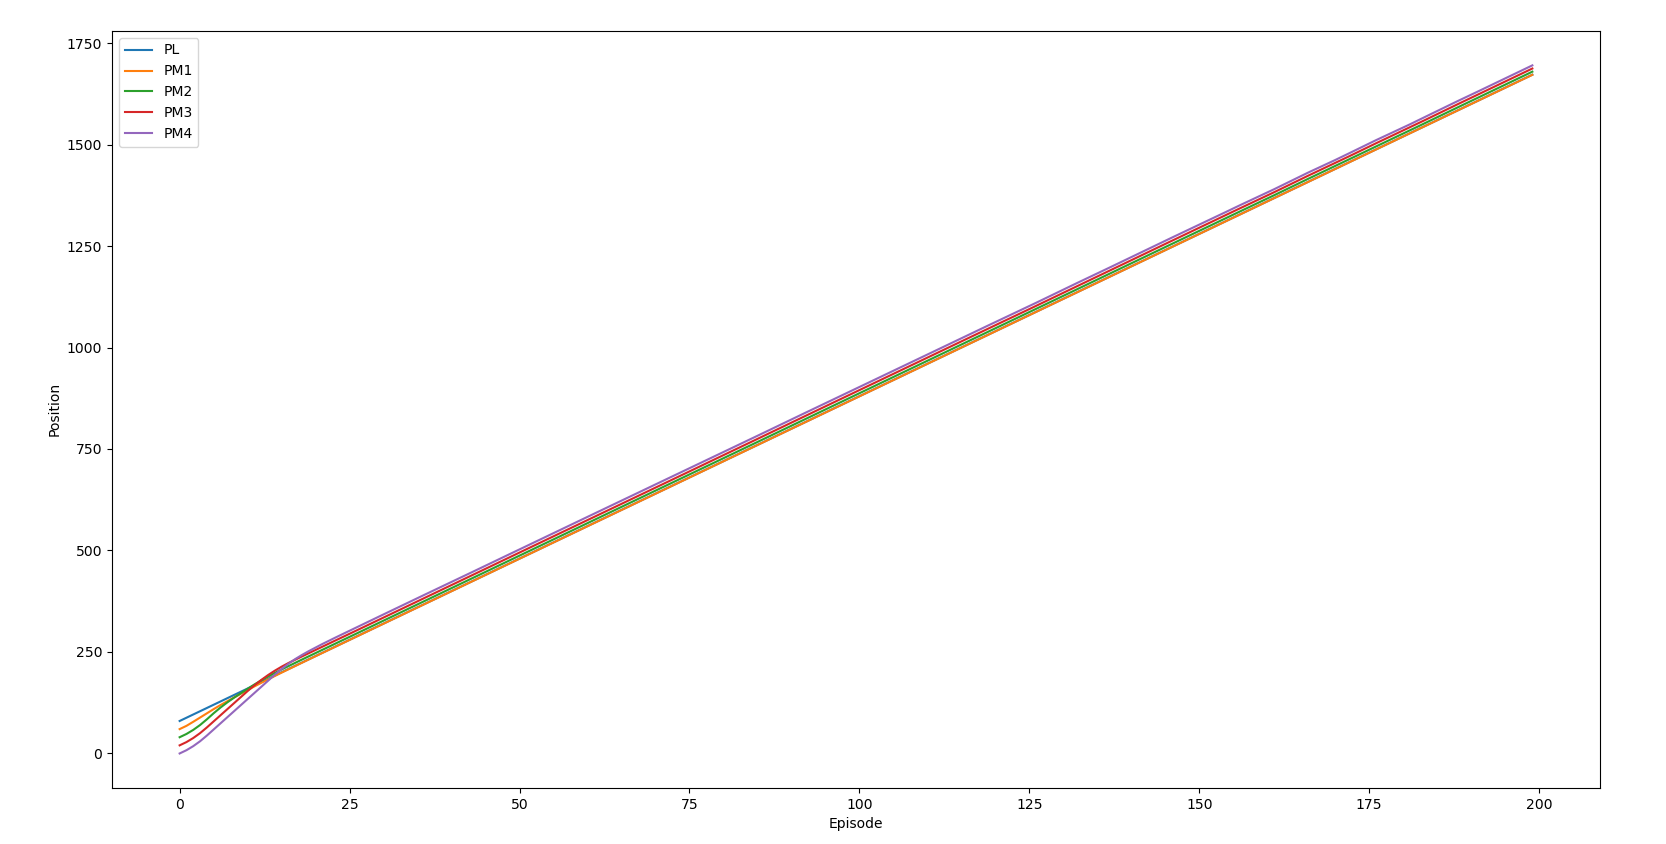
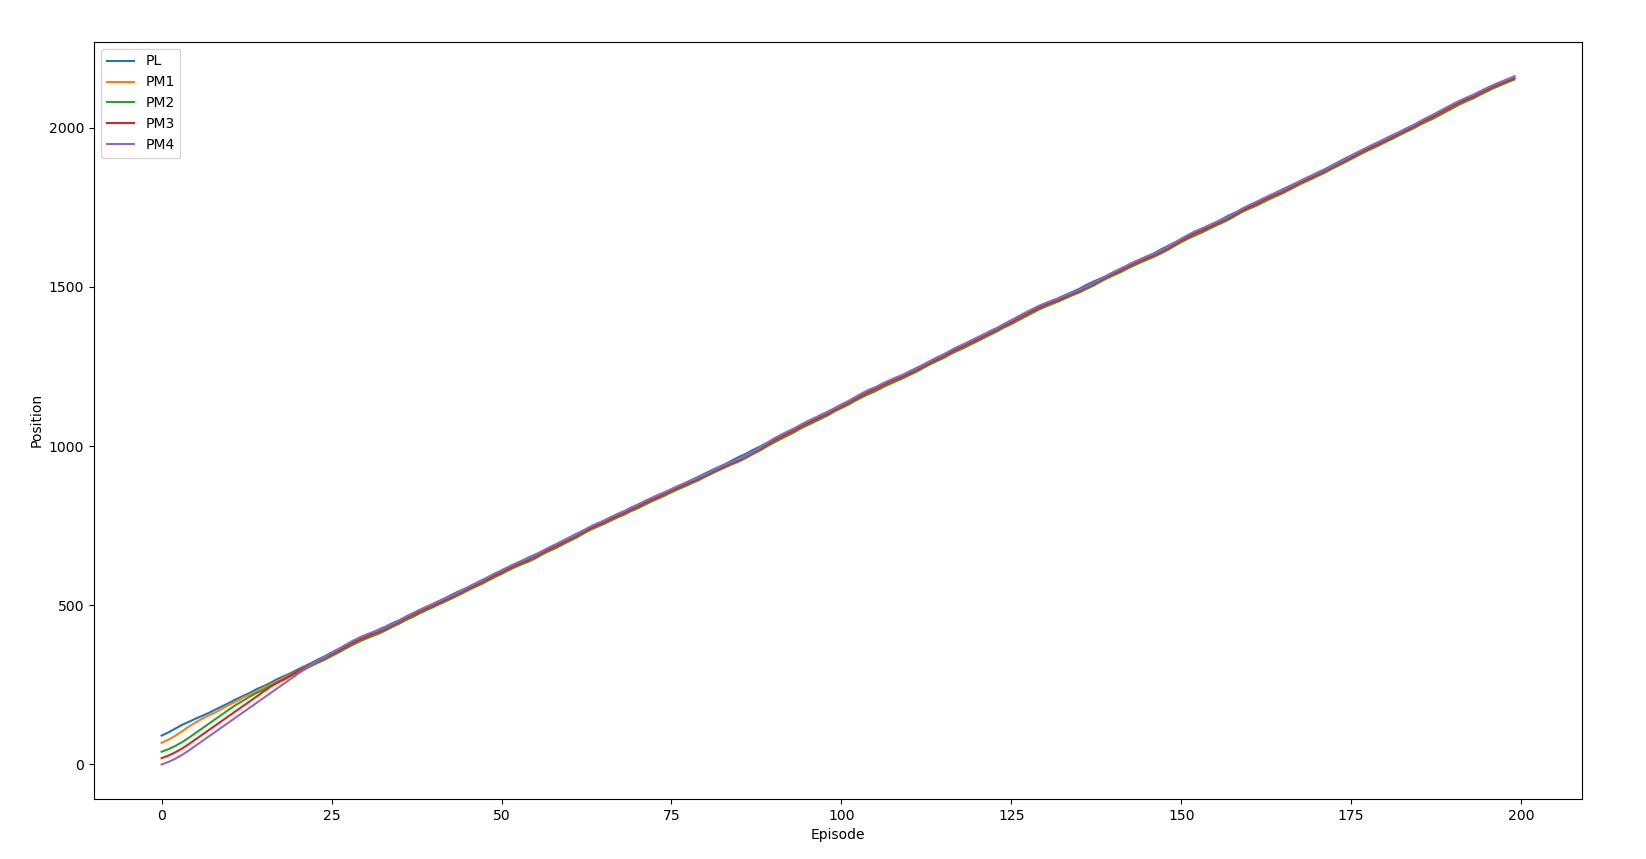
DDPG-Second添加变速的位置和速度图(2)

diff --git a/DDPG_Net.py b/DDPG_Net.py
@@ -14,6 +14,7 @@ import tensorflow as tf
 import numpy as np
 import gym
 import time
+import random
 from Car_env3 import Car
 
 np.random.seed(1)
@@ -21,7 +22,7 @@ tf.set_random_seed(1)
 
 #####################  hyper parameters  ####################
 
-MAX_EPISODES = 1200
+MAX_EPISODES = 500
 MAX_EP_STEPS = 200
 LR_A = 0.001    # learning rate for actor
 LR_C = 0.001    # learning rate for critic
@@ -257,8 +258,8 @@ def PreCar(a,s,Env):
     return s_,r,done
 reward = []
 reward_step = []
-speed_step = [[],[],[],[]]
-position_step = [[],[],[],[]]
+speed_step = [[],[],[],[],[]]
+position_step = [[],[],[],[],[]]
 for i in range(MAX_EPISODES):
     s1 = Env1.reset(80, 60, 8)
     s1 = np.array(s1)
@@ -271,10 +272,9 @@ for i in range(MAX_EPISODES):
     ep_reward = [0, 0, 0, 0]
     for j in range(MAX_EP_STEPS):
         # Add exploration noise
-        if i == 1199:
-            position_step[0].append(Env1.pm)
-            speed_step[0].append(Env1.vm)
+
         # 第一队辆车
+        Env1.vl = random.uniform(9,12)
         a1 = actor.choose_action(s1)
         a1 = np.clip(np.random.normal(a1, var), -2, 2)    # add randomness to action selection for exploration
         s1, r1, done1 = PreCar(a1,s1,Env1)
@@ -283,9 +283,14 @@ for i in range(MAX_EPISODES):
         # if j == MAX_EP_STEPS-1 or done1:
             # print("ENV1"'Episode:', i, ' Reward: %i' % int(ep_reward[0]/j), 'Explore: %.2f' % var, 'step: ',j,'speed: ',Env1.vm,'observation: ',Env1.observation)
             break
-        if i == 1199:
-            position_step[1].append(Env2.pm)
-            speed_step[1].append(Env2.vm)
+        if i == 499:
+            position_step[0].append(Env1.pl)
+            speed_step[0].append(Env1.vl)
+            position_step[1].append(Env1.pm)
+            speed_step[1].append(Env1.vm)
+        if i == 499:
+            position_step[2].append(Env2.pm)
+            speed_step[2].append(Env2.vm)
         # 第二队辆车
         s2 = Env2.render(Env1.vm,Env1.pm)
         s2 = np.array(s2)
@@ -298,9 +303,9 @@ for i in range(MAX_EPISODES):
             # print('Episode:', i, ' Reward: %i' % int(ep_reward[1]/j), 'Explore: %.2f' % var, 'step: ',j,'speed: ',
             #       Env2.vm,'observation: ',Env2.observation)
             break
-        if i == 1199:
-            position_step[2].append(Env3.pm)
-            speed_step[2].append(Env3.vm)
+        if i == 499:
+            position_step[3].append(Env3.pm)
+            speed_step[3].append(Env3.vm)
         # 第三队辆车
         s3 = Env3.render(Env2.vm, Env2.pm)
         s3 = np.array(s3)
@@ -313,9 +318,9 @@ for i in range(MAX_EPISODES):
         #     print('Episode:', i, ' Reward: %i' % int(ep_reward[2] / j), 'Explore: %.2f' % var, 'step: ', j, 'speed: ',
         #           Env3.vm, 'observation: ', Env3.observation)
             break
-        if i == 1199:
-            position_step[3].append(Env4.pm)
-            speed_step[3].append(Env4.vm)
+        if i == 499:
+            position_step[4].append(Env4.pm)
+            speed_step[4].append(Env4.vm)
         # 第四队辆车
         s4 = Env4.render(Env3.vm, Env3.pm)
         s4 = np.array(s4)
@@ -331,24 +336,24 @@ for i in range(MAX_EPISODES):
 
     # if i % 10 == 0:
     #     reward.append(ep_reward/j)
-x = np.arange(200)
-plt.plot(x, 8 * x + 80)
+
+
 plt.plot(np.arange(len(position_step[0])), position_step[0])
 plt.plot(np.arange(len(position_step[1])), position_step[1])
 plt.plot(np.arange(len(position_step[2])), position_step[2])
 plt.plot(np.arange(len(position_step[3])), position_step[3])
+plt.plot(np.arange(len(position_step[4])), position_step[4])
 plt.legend(['PL','PM1','PM2','PM3','PM4'], loc = 'upper left')
 plt.ylabel("Position")
 plt.xlabel("Episode")
 plt.show()
 
-y = np.arange(200)
-z = np.zeros(200)
-plt.plot(y, z + 8)
+
 plt.plot(np.arange(len(speed_step[0])), speed_step[0])
 plt.plot(np.arange(len(speed_step[1])), speed_step[1])
 plt.plot(np.arange(len(speed_step[2])), speed_step[2])
 plt.plot(np.arange(len(speed_step[3])), speed_step[3])
+plt.plot(np.arange(len(speed_step[4])), speed_step[4])
 plt.legend(['PL','PM1','PM2','PM3','PM4'], loc = 'upper left')
 plt.ylabel("Speed")
 plt.xlabel("Episode")

diff --git a/Car_env3.py b/Car_env3.py
@@ -90,35 +90,15 @@ class Car():
             self.pl += self.vl
         s[0] = self.pl - self.pm
         s[1] = self.vl - self.vm
-        # 速度和位置变化
-        # if s[1] + a > self.max:
-        #     s[1] = self.max
-        #     s[0] += s[1]
-        #     self.pl += self.vl
-        # elif s[1] + a < self.min:
-        #     s[1] = s[1]
-        #     s[0] += s[1]
-        #     self.pl += self.vl
-        # else:
-        #     s[1] += a
-        #     s[0] += s[1]
-        #     self.pl += self.vl
-        # 奖励函数
+
         if self.iscollsion(s) == True:
             reward += -1000
             done = True
         else:
-            # reward_tem = (-(self.pq * ((self.pl - s[0] -self.target)** 2) + self.vq * ((self.vl - s[1]) ** 2)) / 100)
-            # reward = reward_tem
-            # done = False
+
             reward += -(self.pq * (s[0]) ** 2 + self.vq * (s[1]) ** 2)/100
             done = False
         return s,reward,done
-    # 刷新环境
-    # def render(self,s):
-    #     self.observation = s
-    #     self.pm = s[0]
-    #     self.vm = s[1]
 
 
 
